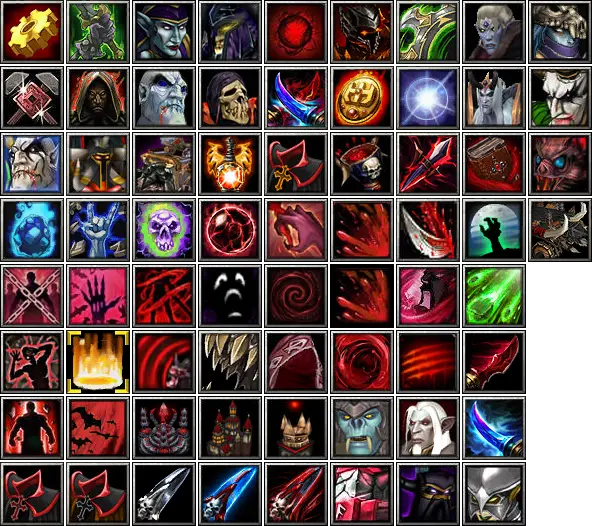
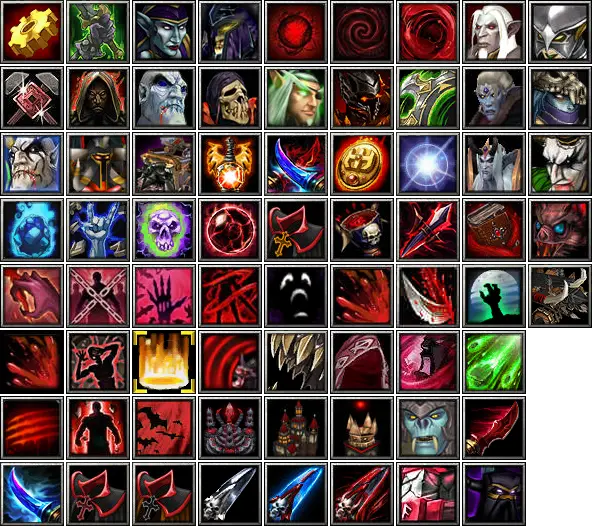
chore: OZ added venthyr uniq hero

diff --git a/generator/utils.ts b/generator/utils.ts
@@ -7,6 +7,7 @@ import { isNotNil, isBaseObject } from '../utils/guards';
 import { ozPatch, sur5alPatch } from './patches';
 import { Upgrades } from './objects';
 import type { IBaseObject } from '~/data/types';
+import mergeWith from 'lodash/mergeWith';
 
 const patches = (() => {
   switch (globalThis.mapVersion) {
@@ -172,10 +173,11 @@ export abstract class W3Parser {
   }
 
   protected applyPatch<T extends IBaseObject>(obj: T): T {
-    return {
-      ...obj,
-      ...(patches[obj.id] ?? {}),
-    };
+    return mergeWith(obj, patches[obj.id] ?? {}, (objValue, patchValue) => {
+      if (Array.isArray(objValue)) {
+        return objValue.concat(patchValue);
+      }
+    });
   }
 }
 

diff --git a/components/details/DetailsBonus.vue b/components/details/DetailsBonus.vue
@@ -39,6 +39,15 @@
       :title="`Unit: ${unit.name}`"
       :value="`unit-${unit.id}`"
     >
+      <template #title>
+        <GameIcon
+          :src="iconsSrc"
+          :coords="iconProps(unit.id)"
+          width="32"
+          class="mr-2"
+        />
+        <span>Unit: {{ unit.name }}</span>
+      </template>
       <v-expansion-panel-text>
         <DetailsUnit :item="unit" />
       </v-expansion-panel-text>

diff --git a/generator/ozScript.ts b/generator/ozScript.ts
@@ -489,6 +489,11 @@ export class OZScriptParser extends BaseScriptParser {
   }
 
   override getBonusUnit(bonusID: string): string | undefined {
+    // Ventyr uniq
+    if (bonusID === 'n066') {
+      return 'O05N';
+    }
+
     const findBlockIndex = this.script.match(
       new RegExp(
         String.raw`(?:else)?if .{2,6}==${this.strToInt(bonusID)}`,
